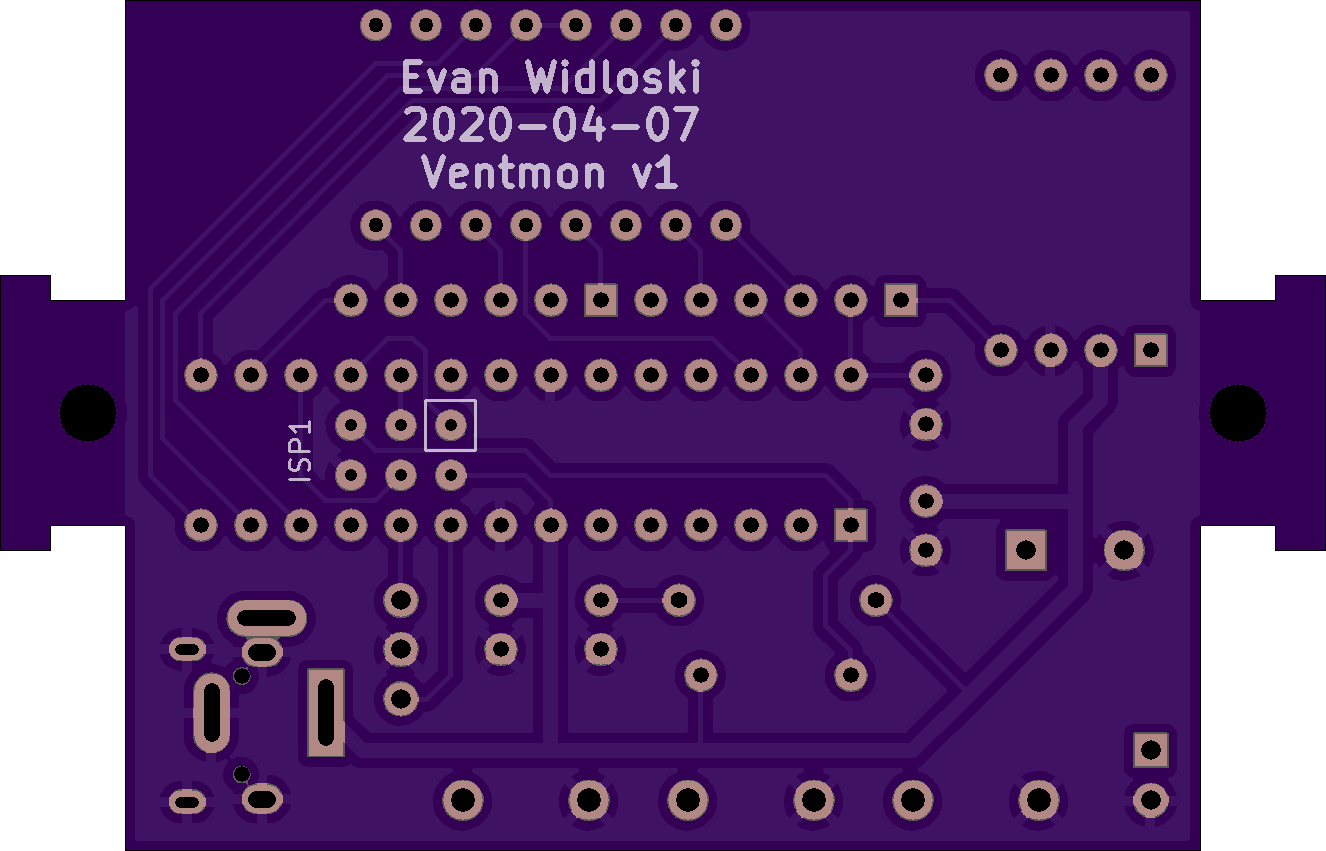
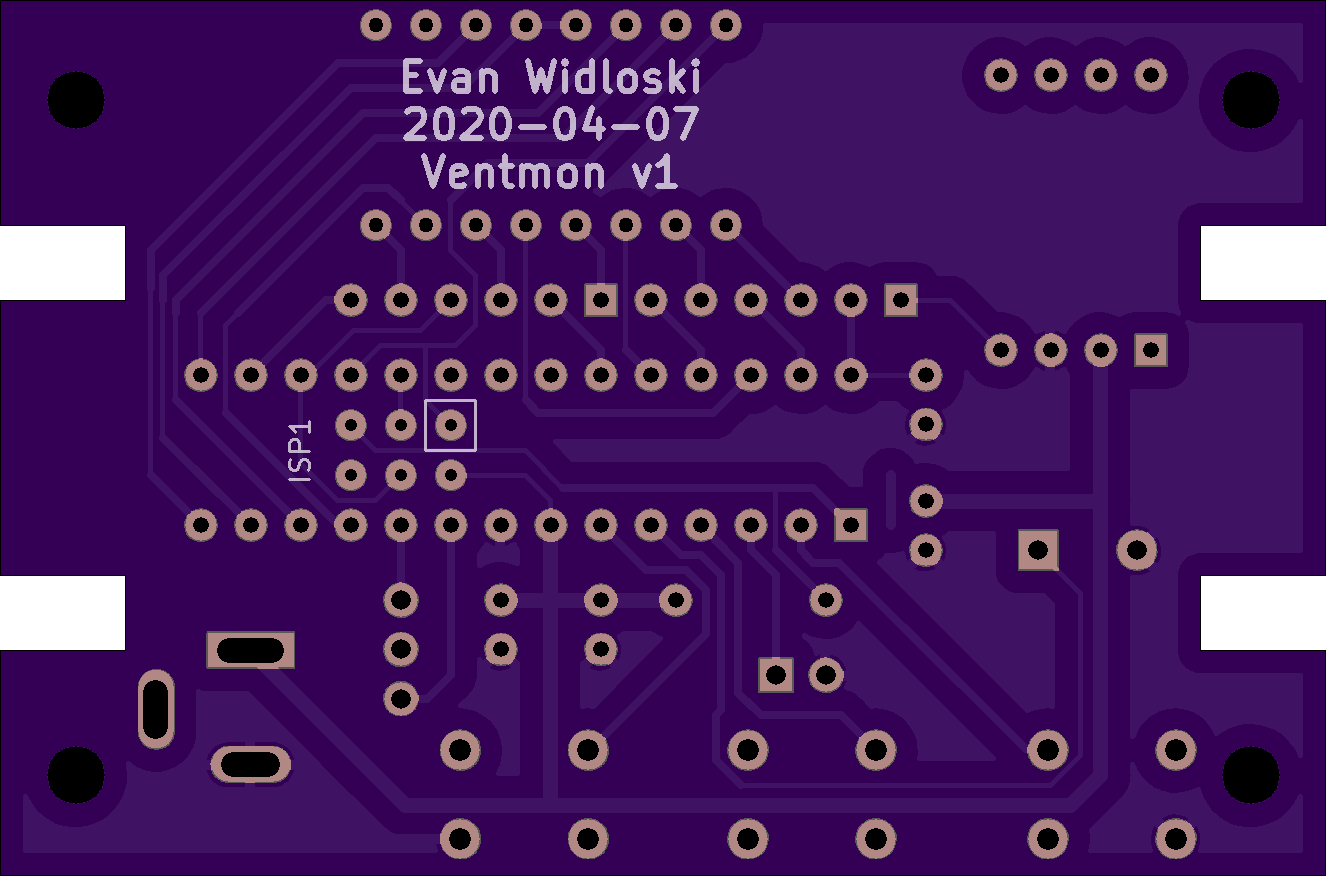
smd board renders, switch youtube embed to illinois upload

diff --git a/index.md b/index.md
@@ -4,7 +4,7 @@
 
 ![](pictures/rapid_alarm_photo.png)
 
-<iframe style="display: block;margin: 3em auto 3em auto;" width="560" height="315" src="https://www.youtube.com/embed/mHu1bKLIiLw" frameborder="0" allow="accelerometer; autoplay; encrypted-media; gyroscope; picture-in-picture" allowfullscreen></iframe>
+<iframe style="display: block;margin: 3em auto 3em auto;" width="560" height="315" src="https://www.youtube.com/embed/8bSyTYTYtEM" frameborder="0" allow="accelerometer; autoplay; encrypted-media; gyroscope; picture-in-picture" allowfullscreen></iframe>
 
 The Illinois RapidAlarm is a sensor and alarm module for use with pressure-cycled ventilators such as the [Illinois RapidVent](https://rapidvent.grainger.illinois.edu/). The module connects to a ventilator circuit and monitors the pressure delivered to the patient airway. It creates an audible alarm when it detects that the system is not operating normally and displays information about pressure and breathing rate. The Illinois RapidAlarm is designed to be rapidly produced from readily available parts. The electronic kit can be assembled by hand or by machine using through-hole or surface-mount parts. This website contains hardware designs, software code, and documentation to allow anyone to build their own Illinois RapidAlarm or to adapt the design to their own needs. All resources are provided with open licenses (see [legal disclaimer](legal.md)).
 

diff --git a/hardware.md b/hardware.md
@@ -42,6 +42,9 @@ There is a 6-pin ISP header on the bottom side of the board for programming.  Ei
 
 ## Surface Mount
 
+![Through hole top](pictures/board_smd_top.png)
+![Through hole bottom](pictures/board_smd_bottom.png)
+
 - [Design Files](https://github.com/rapidalarm/rapidalarm/tree/master/pcb/pcb_smd)
 - [Source Code]()
 
